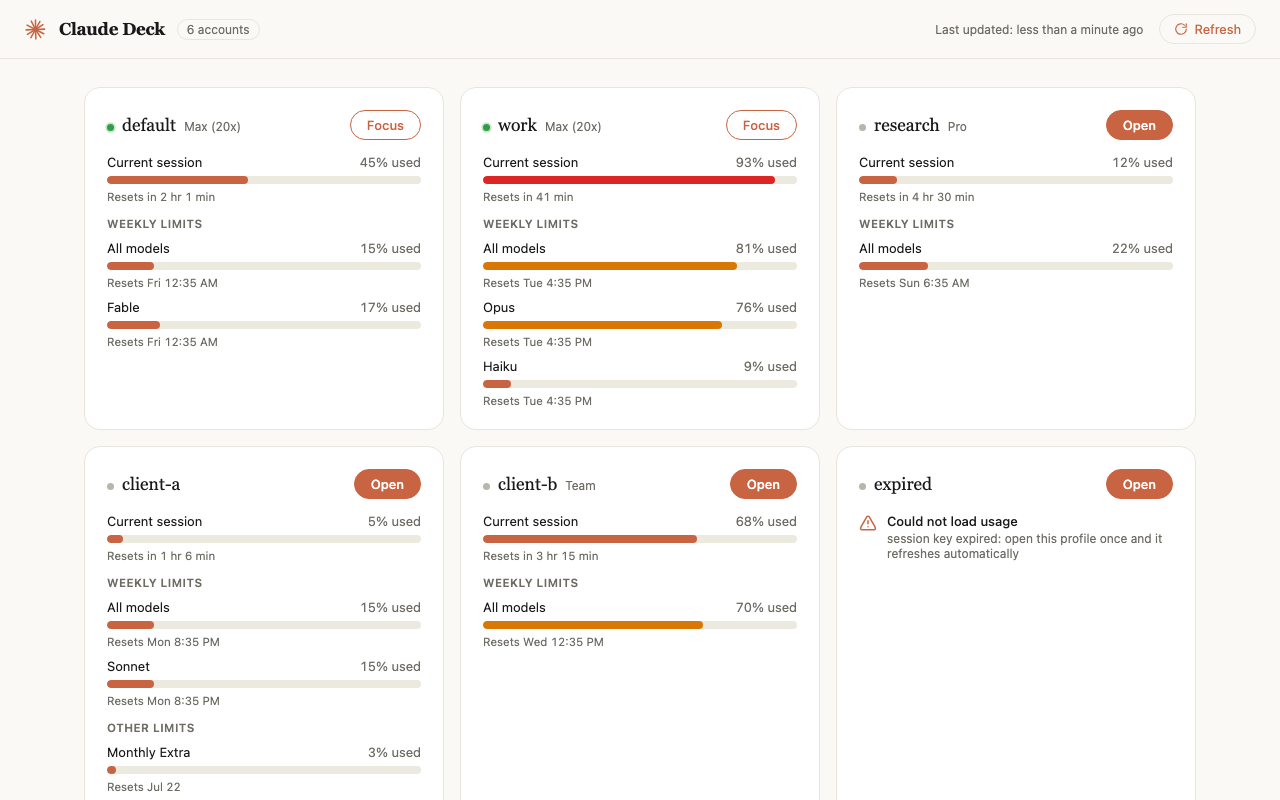
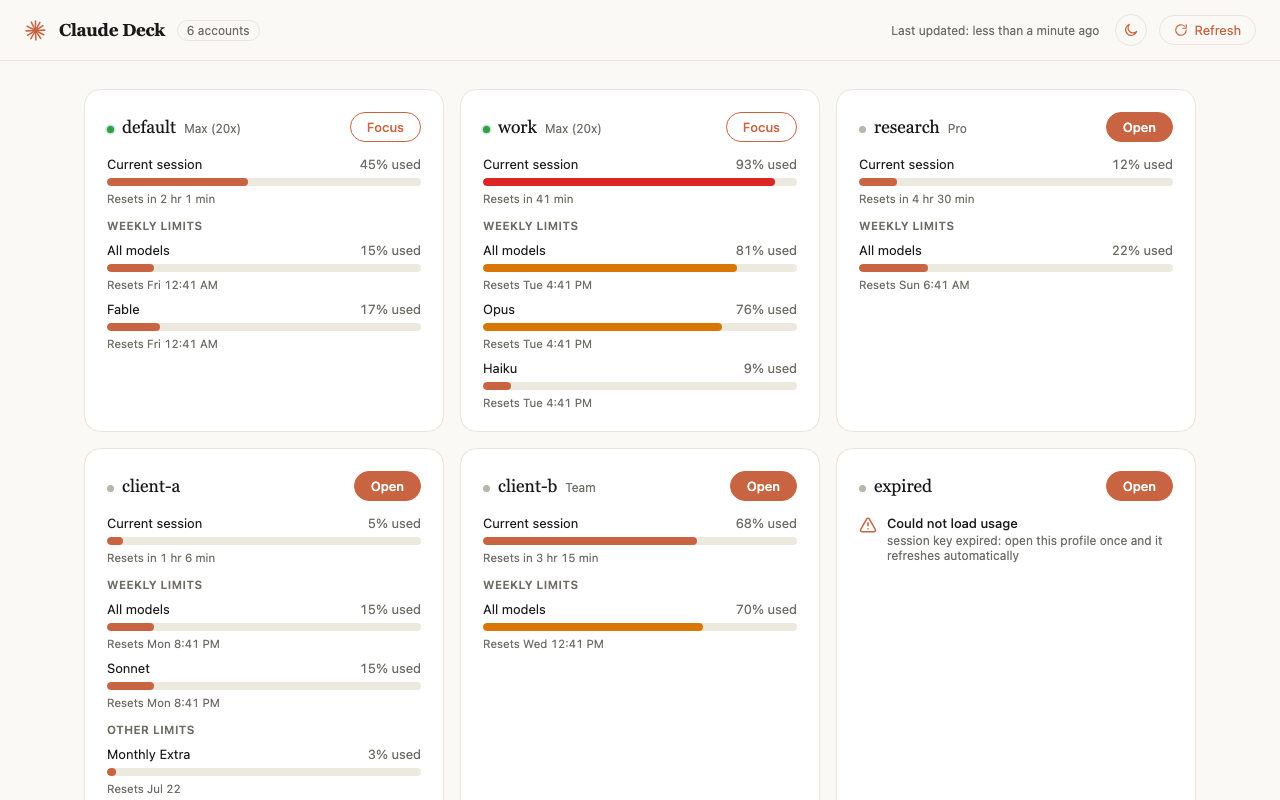
Add day/night theme toggle to the dashboard header
Icon-only round button (moon in light, sun in dark) next to Refresh.
Priority: ?theme= param, then localStorage, then system; icon tracks the
active theme and follows OS changes when no explicit choice is set.

diff --git a/dashboard/index.html b/dashboard/index.html
@@ -117,6 +117,28 @@
   button.refresh svg { transition: transform 0.5s ease; }
   button.refresh.spinning svg { transform: rotate(360deg); }
 
+  button.theme-toggle {
+    display: inline-flex;
+    align-items: center;
+    justify-content: center;
+    width: 32px;
+    height: 32px;
+    flex-shrink: 0;
+    background: transparent;
+    border: 1px solid var(--border);
+    color: var(--accent);
+    border-radius: 999px;
+    cursor: pointer;
+    font-family: inherit;
+    padding: 0;
+    transition: background-color 150ms ease, color 150ms ease, border-color 150ms ease;
+  }
+  button.theme-toggle:hover { background: var(--accent); border-color: var(--accent); color: var(--accent-fg); }
+  button.theme-toggle .icon-sun,
+  button.theme-toggle .icon-moon { display: none; }
+  html.theme-resolved-dark button.theme-toggle .icon-sun { display: block; }
+  html.theme-resolved-light button.theme-toggle .icon-moon { display: block; }
+
   main { max-width: 1160px; margin: 0 auto; padding: 28px 24px 60px; }
 
   .grid {
@@ -328,6 +350,24 @@
   <span class="count" id="count">0 accounts</span>
   <div class="spacer"></div>
   <span class="updated" id="updated">Last updated: less than a minute ago</span>
+  <button class="theme-toggle" id="theme-toggle-btn" aria-label="Toggle theme" type="button">
+    <svg class="icon-moon" width="16" height="16" viewBox="0 0 24 24" fill="none" xmlns="http://www.w3.org/2000/svg">
+      <path d="M20.5 14.2A8.5 8.5 0 1 1 9.8 3.5a7 7 0 0 0 10.7 10.7Z" stroke="currentColor" stroke-width="1.8" stroke-linecap="round" stroke-linejoin="round"/>
+    </svg>
+    <svg class="icon-sun" width="16" height="16" viewBox="0 0 24 24" fill="none" xmlns="http://www.w3.org/2000/svg">
+      <circle cx="12" cy="12" r="4" stroke="currentColor" stroke-width="1.8"/>
+      <g stroke="currentColor" stroke-width="1.8" stroke-linecap="round">
+        <line x1="12" y1="2.2" x2="12" y2="4.6"/>
+        <line x1="12" y1="19.4" x2="12" y2="21.8"/>
+        <line x1="21.8" y1="12" x2="19.4" y2="12"/>
+        <line x1="4.6" y1="12" x2="2.2" y2="12"/>
+        <line x1="18.6" y1="5.4" x2="16.9" y2="7.1"/>
+        <line x1="7.1" y1="16.9" x2="5.4" y2="18.6"/>
+        <line x1="18.6" y1="18.6" x2="16.9" y2="16.9"/>
+        <line x1="7.1" y1="7.1" x2="5.4" y2="5.4"/>
+      </g>
+    </svg>
+  </button>
   <button class="refresh" id="refresh-btn">
     <svg width="14" height="14" viewBox="0 0 24 24" fill="none" xmlns="http://www.w3.org/2000/svg">
       <path d="M21 12a9 9 0 1 1-3-6.7" stroke="currentColor" stroke-width="2" stroke-linecap="round"/>
@@ -347,11 +387,53 @@
 
 <script>
 (function () {
+  var STORAGE_KEY = 'claude-deck-theme';
+  var root = document.documentElement;
+  var media = window.matchMedia('(prefers-color-scheme: dark)');
+
   var params = new URLSearchParams(location.search);
-  var theme = params.get('theme');
-  if (theme === 'light' || theme === 'dark') {
-    document.documentElement.dataset.theme = theme;
+  var urlTheme = params.get('theme');
+  var explicit = null;
+  if (urlTheme === 'light' || urlTheme === 'dark') {
+    explicit = urlTheme;
+  } else {
+    try {
+      var stored = localStorage.getItem(STORAGE_KEY);
+      if (stored === 'light' || stored === 'dark') explicit = stored;
+    } catch (e) { /* localStorage unavailable */ }
   }
+
+  function resolvedTheme() {
+    if (explicit) return explicit;
+    return media.matches ? 'dark' : 'light';
+  }
+
+  function applyResolvedClass() {
+    var resolved = resolvedTheme();
+    root.classList.remove('theme-resolved-light', 'theme-resolved-dark');
+    root.classList.add('theme-resolved-' + resolved);
+  }
+
+  if (explicit) {
+    root.dataset.theme = explicit;
+  }
+  applyResolvedClass();
+
+  media.addEventListener('change', function () {
+    if (!explicit) applyResolvedClass();
+  });
+
+  window.addEventListener('DOMContentLoaded', function () {
+    var btn = document.getElementById('theme-toggle-btn');
+    if (!btn) return;
+    btn.addEventListener('click', function () {
+      var next = resolvedTheme() === 'dark' ? 'light' : 'dark';
+      explicit = next;
+      root.dataset.theme = next;
+      applyResolvedClass();
+      try { localStorage.setItem(STORAGE_KEY, next); } catch (e) { /* localStorage unavailable */ }
+    });
+  });
 })();
 
 (function () {